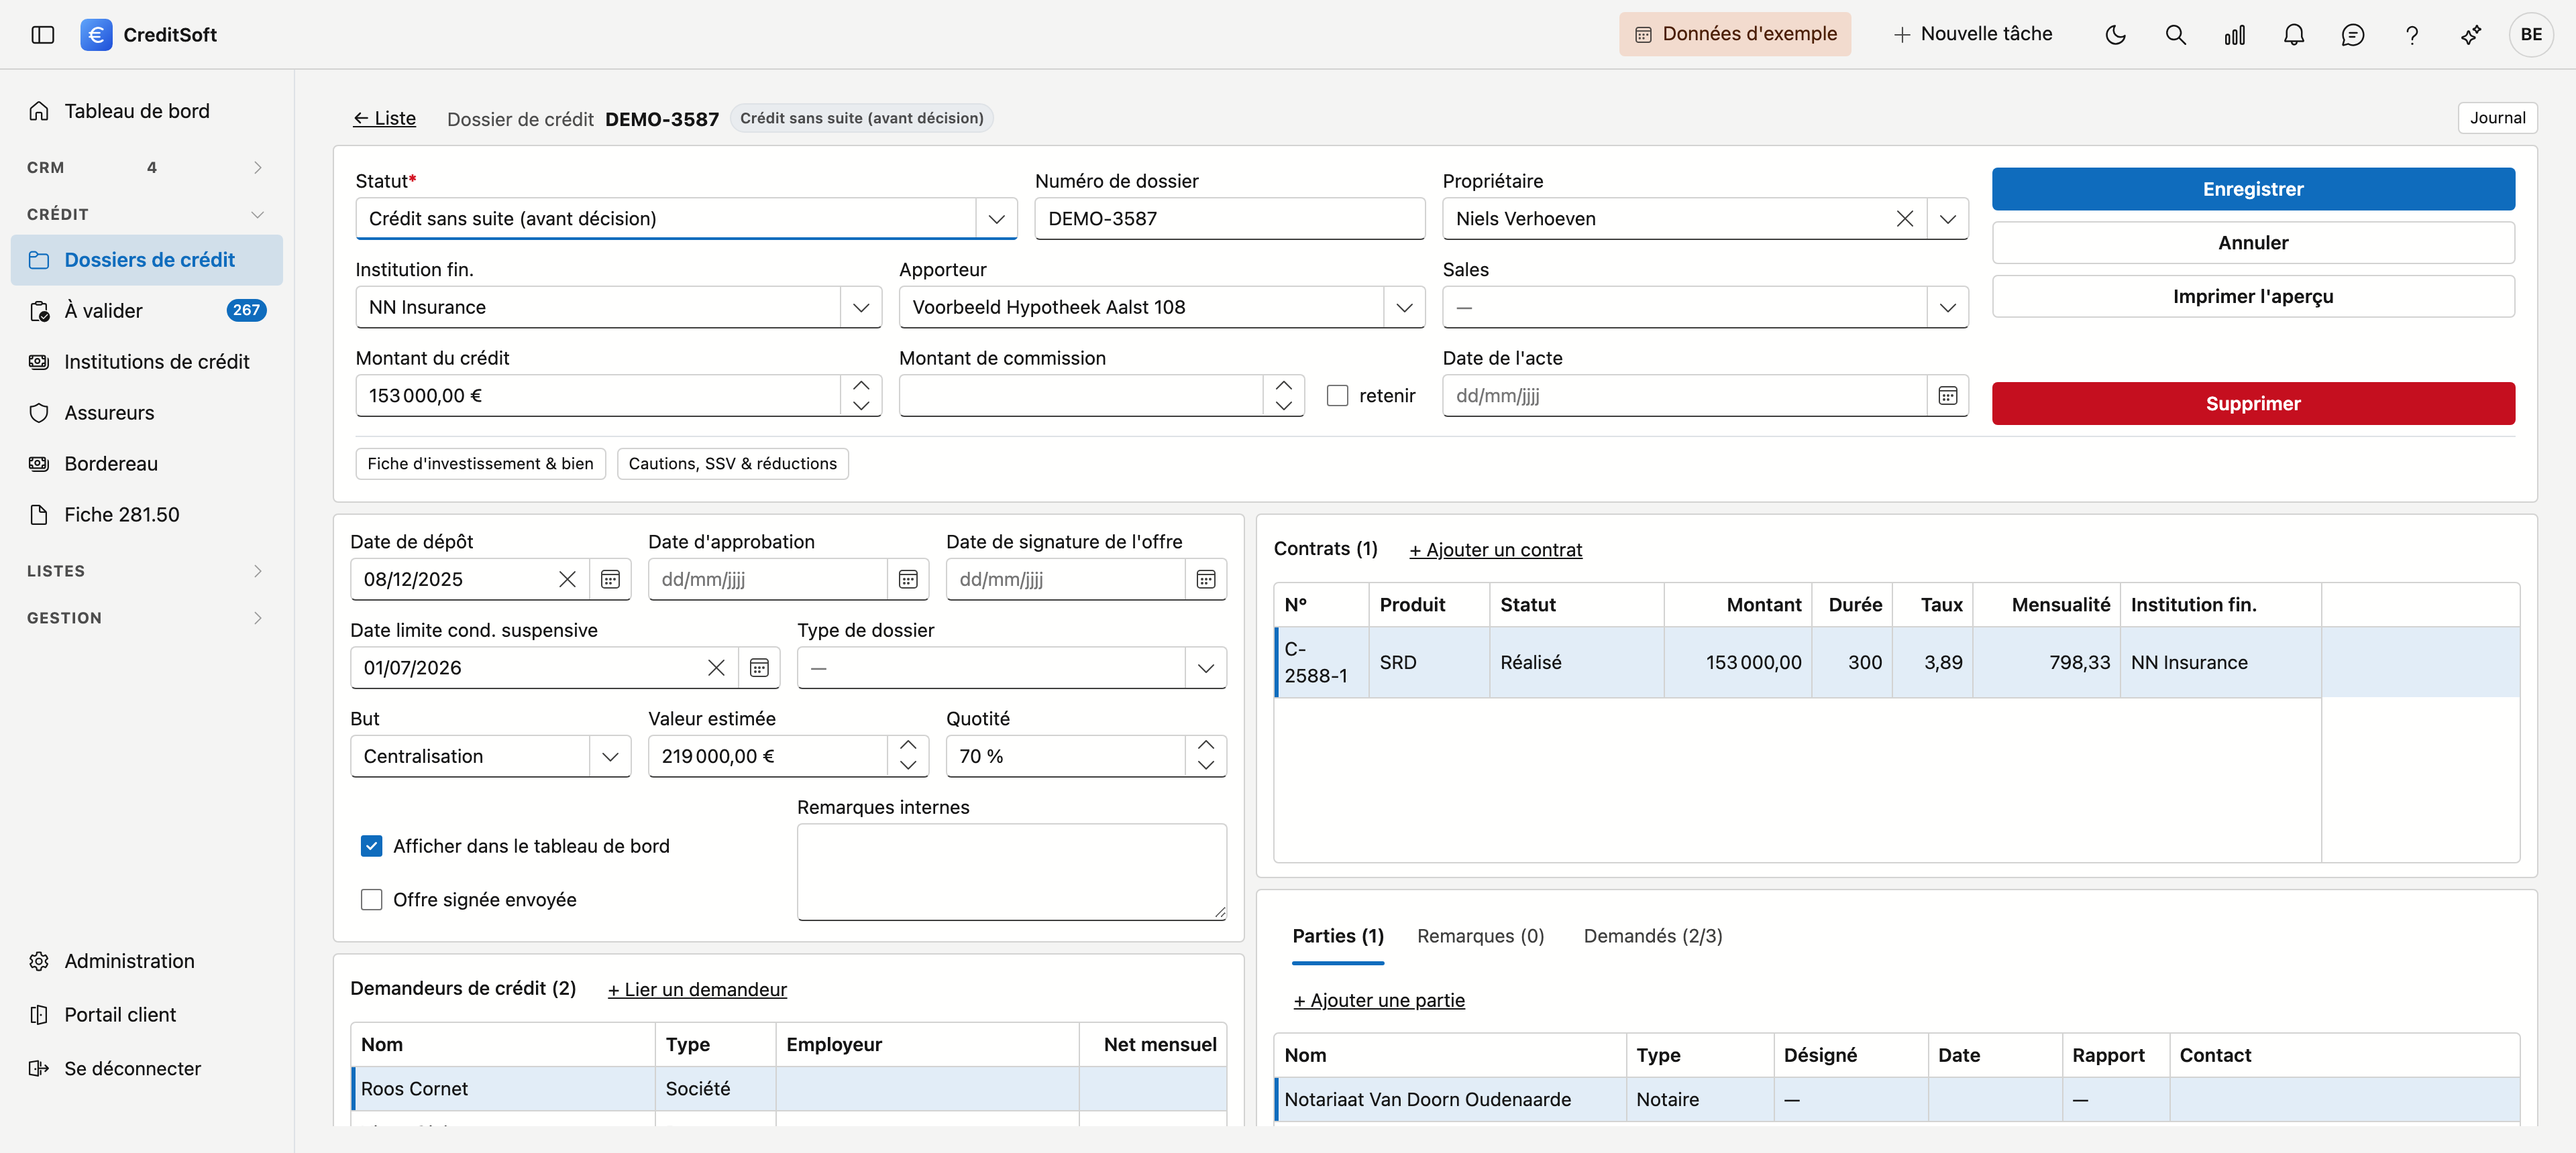
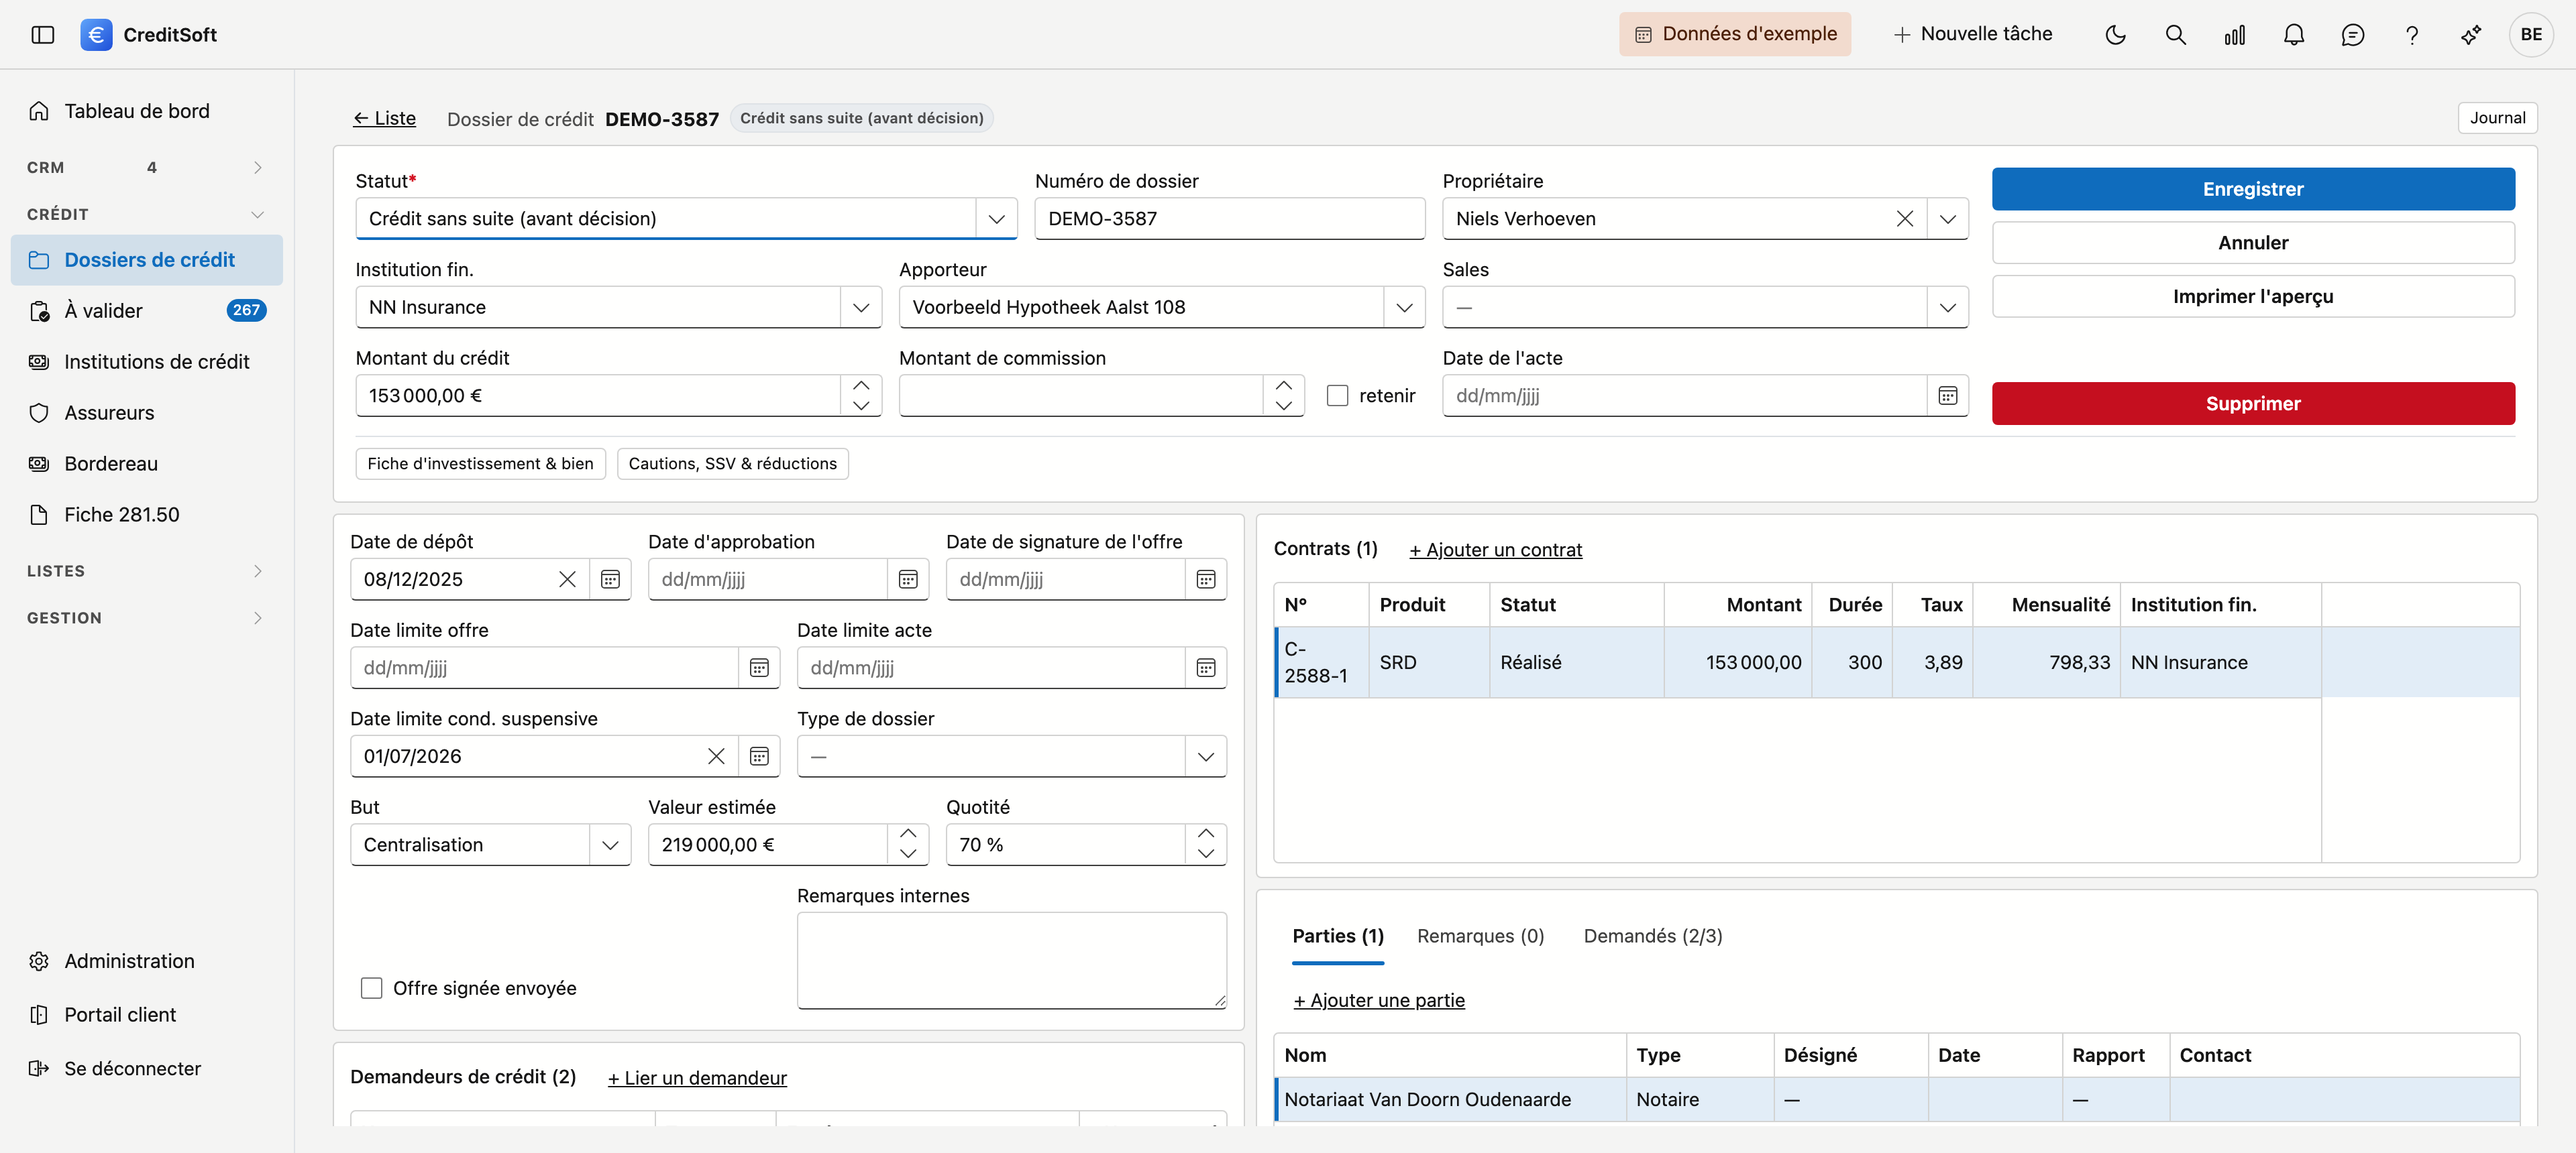
Beeldronde kredietdossier (NL+FR) tegen app 640b20c8: termijnrij, geen vinkje meer
kredietdossier-fiche(-fr): de nieuwe rij Uiterste datum aanbod / akte, zonder
"Weergeven in dashboard". Vorm ongewijzigd (3840x1720). portaal-dossier-detail
hernomen maar byte-identiek: dat beeld toont enkel de kop van de fiche.

Alt-teksten bijgewerkt — en twee oudere onjuistheden rechtgezet die de
generator niet kan zien (kleine letters/cijfers): "inhouden" staat naast het
commissiebedrag, niet naast het kredietbedrag; en "de teller 4/4" werd "elk met
een teller" (het beeld toont 2/3, en een getal veroudert met de demodata).

app.vuil = true: tijdens de ronde stond ADM_TIJD_VAST in launchSettings.json.

diff --git a/docs/credit-management/credit-files.fr.md b/docs/credit-management/credit-files.fr.md
@@ -49,7 +49,7 @@ Avec **Nouveau dossier** en haut de la liste, vous créez un dossier vide. Le st
 
 ## Le dossier
 
-![Un dossier de crédit ouvert : en haut le bloc principal avec le statut, le numéro interne, le propriétaire et le responsable commercial sous forme de listes déroulantes, l'institution financière, l'apporteur, le montant du crédit avec la case Retenir à côté et la date d'acte, et à droite les boutons Enregistrer, Annuler, Aperçu d'impression et Supprimer. En dessous, à gauche les dates, le type de dossier, la valeur estimée et la quotité avec les cases Afficher dans le tableau de bord et Offre signée envoyée ainsi que le champ Remarques internes ; à droite les contrats et en bas les onglets Parties, Remarques et Demandés avec le compteur 4/4.](../images/kredietdossier-fiche-fr.png "Le dossier de crédit : tout sur une seule page"){ .volle-breedte }
+![Un dossier de crédit ouvert : en haut le bloc principal avec le statut, le numéro interne, le propriétaire et le responsable commercial sous forme de listes déroulantes, l'institution financière, l'apporteur, le montant du crédit, le montant de commission avec la case Retenir à côté et la date d'acte, et à droite les boutons Enregistrer, Annuler, Aperçu d'impression et Supprimer. En dessous, à gauche les dates, suivies des dates limites de l'offre, de l'acte et des conditions suspensives, le type de dossier, la valeur estimée et la quotité avec la case Offre signée envoyée ainsi que le champ Remarques internes ; à droite les contrats et en bas les onglets Parties, Remarques et Demandés, chacun avec un compteur.](../images/kredietdossier-fiche-fr.png "Le dossier de crédit : tout sur une seule page"){ .volle-breedte }
 
 Le dossier tient sur une seule page. En haut, le bloc principal reprend les données dont vous avez le plus souvent besoin ; en dessous, les dates et le bien à gauche, les contrats à droite. En bas à droite, **Parties**, **Remarques** et **Demandés** figurent côte à côte sous forme d'onglets — trois listes qui partagent le même emplacement, pour que vous puissiez les atteindre toutes les trois sans faire défiler la page.
 

diff --git a/docs/credit-management/credit-files.md b/docs/credit-management/credit-files.md
@@ -49,7 +49,7 @@ Met **Nieuw dossier** bovenaan de lijst maakt u een leeg dossier aan. Welke stat
 
 ## Het dossier
 
-![Een geopend kredietdossier: bovenaan de kopkaart met status, intern nummer, eigenaar en sales als keuzelijst, de financiële instelling, de aanbrenger, het kredietbedrag met het vinkje inhouden ernaast en de datum akte, met rechts de knoppen Bewaren, Annuleren, Afdruk overzicht en Verwijderen. Daaronder links de datums, het type dossier, de schattingswaarde en de quotiteit met de vinkjes Weergeven in dashboard en Getekend aanbod verzonden en het veld Interne opmerkingen; rechts de contracten en onderaan de tabbladen Partijen, Opmerkingen en Gevraagd met de teller 4/4.](../images/kredietdossier-fiche.png "Het kredietdossier: alles op één pagina"){ .volle-breedte }
+![Een geopend kredietdossier: bovenaan de kopkaart met status, intern nummer, eigenaar en sales als keuzelijst, de financiële instelling, de aanbrenger, het kredietbedrag, het commissiebedrag met het vinkje inhouden ernaast en de datum akte, met rechts de knoppen Bewaren, Annuleren, Afdruk overzicht en Verwijderen. Daaronder links de datums met daaronder de uiterste datums voor het aanbod, de akte en de opschortende voorwaarden, het type dossier, de schattingswaarde en de quotiteit met het vinkje Getekend aanbod verzonden en het veld Interne opmerkingen; rechts de contracten en onderaan de tabbladen Partijen, Opmerkingen en Gevraagd, elk met een teller.](../images/kredietdossier-fiche.png "Het kredietdossier: alles op één pagina"){ .volle-breedte }
 
 Het dossier is één pagina. Bovenaan staat het kernblok met de gegevens die u het vaakst nodig hebt; daaronder staan links de datums en het pand, rechts de contracten. Onderaan rechts staan **Partijen**, **Opmerkingen** en **Gevraagd** naast elkaar als tabbladen — drie lijsten die dezelfde plaats delen, zodat u niet hoeft te scrollen om ze alle drie te bereiken.
 
